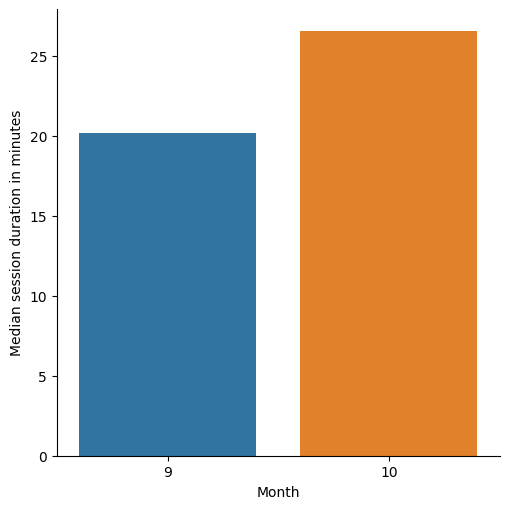
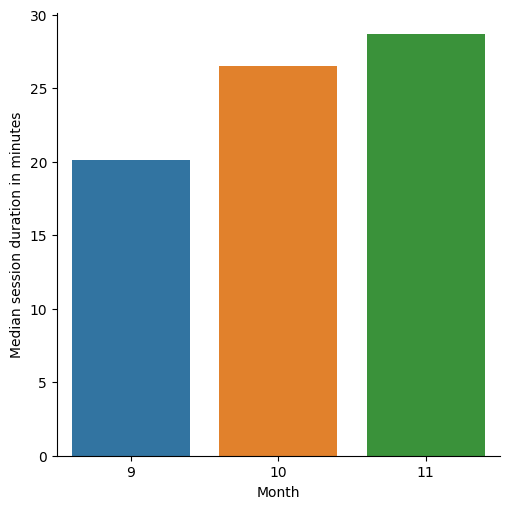
"Stats generated 2021-11-02"

diff --git a/all/2021/11/index.html b/all/2021/11/index.html
@@ -1,0 +1,54 @@
+<!DOCTYPE html>
+<html>
+  <head>
+    <meta charset="utf-8"/>
+    <title>November 2021</title>
+    <link rel="stylesheet" href="../../../styles.css"/>
+  </head>
+  <body>
+    <div id="container">
+      <nav>
+        <ul>
+          
+            <li><a href="../">2021</a></li>
+            <li class="separator"></li>
+          
+          
+            
+              <li><span>Weekdays</span></li>
+            
+          
+            
+              <li><a href="weekdays/0/">Monday</a></li>
+            
+          
+            
+              <li><span>Day of Month</span></li>
+            
+          
+            
+              <li><a href="days/1/">1</a></li>
+            
+          
+        </ul>
+      </nav>
+      <main>
+        <h1>November 2021</h1>
+        
+          <h2>Number of sessions per day</h2>
+          <img src="day-sessions.png" alt="Number of sessions per day"/>
+        
+          <h2>Session duration per day</h2>
+          <img src="day-durations.png" alt="Session duration per day"/>
+        
+          <h2>Number of sessions per weekday</h2>
+          <img src="weekday-sessions.png" alt="Number of sessions per weekday"/>
+        
+          <h2>Session duration per weekday</h2>
+          <img src="weekday-durations.png" alt="Session duration per weekday"/>
+        
+        
+      </main>
+    </div>
+  </body>
+</html>

diff --git a/all/2021/11/weekdays/0/index.html b/all/2021/11/weekdays/0/index.html
@@ -1,0 +1,29 @@
+<!DOCTYPE html>
+<html>
+  <head>
+    <meta charset="utf-8"/>
+    <title>Mondays November 2021</title>
+    <link rel="stylesheet" href="../../../../../styles.css"/>
+  </head>
+  <body>
+    <div id="container">
+      <nav>
+        <ul>
+          
+            <li><a href="../../">November 2021</a></li>
+            <li class="separator"></li>
+          
+          
+        </ul>
+      </nav>
+      <main>
+        <h1>Mondays November 2021</h1>
+        
+          <h2>Number of sessions per hour</h2>
+          <img src="sessions.png" alt="Number of sessions per hour"/>
+        
+        
+      </main>
+    </div>
+  </body>
+</html>

diff --git a/all/2021/11/days/1/index.html b/all/2021/11/days/1/index.html
@@ -1,0 +1,29 @@
+<!DOCTYPE html>
+<html>
+  <head>
+    <meta charset="utf-8"/>
+    <title>1 November 2021</title>
+    <link rel="stylesheet" href="../../../../../styles.css"/>
+  </head>
+  <body>
+    <div id="container">
+      <nav>
+        <ul>
+          
+            <li><a href="../../">November 2021</a></li>
+            <li class="separator"></li>
+          
+          
+        </ul>
+      </nav>
+      <main>
+        <h1>1 November 2021</h1>
+        
+          <h2>Number of sessions per hour</h2>
+          <img src="sessions.png" alt="Number of sessions per hour"/>
+        
+        
+      </main>
+    </div>
+  </body>
+</html>

diff --git a/all/2021/index.html b/all/2021/index.html
@@ -22,6 +22,10 @@
               <li><a href="10/">October</a></li>
             
           
+            
+              <li><a href="11/">November</a></li>
+            
+          
         </ul>
       </nav>
       <main>
@@ -153,9 +157,9 @@
                   
                     <td>11.0</td>
                   
-                    <td>0.0</td>
+                    <td>14.0</td>
                   
-                    <td>nan</td>
+                    <td>28.72549899166667</td>
                   
                 </tr>
               
